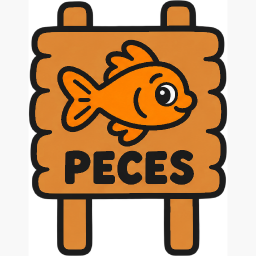
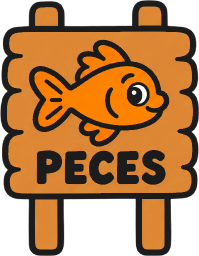
fix(art): erase the ghost alpha the prologue's authored cutouts shipped with
The four new cutouts came back with their transparent field at alpha 8
instead of 0, over ~10% of the canvas. recolour dyed that field INK and
alpha_bbox counted it as content, so each asset shipped as a near-black
wash behind the figure and cropped far wider than its drawing.

clear_ghost_alpha is opt-in via GHOST_ALPHA_SOURCES, like the existing
SPECKLED_ALPHA_SOURCES: run over every source it shifted four approved
assets by a pixel through a box_resize rounding flip, and those
dimensions are guarded on purpose.

Dropping the phantom padding changes w/h, so assets.ts is resynced from
the manifest, and PrologueOpening sizes the caretaker by height -- at
width 44% the now-taller 235x320 figure hid its head behind the bubble.

diff --git a/client/src/screen/PrologueOpening.tsx b/client/src/screen/PrologueOpening.tsx
@@ -44,7 +44,14 @@ const PROLOGUE_CSS = `
 .cv-prologue { height: 100dvh; display: flex; align-items: center; justify-content: center; background-color: ${SHEET_PAPER}; box-sizing: border-box; padding: 4%; }
 .cv-prologue-frame { position: relative; width: min(100%, 620px, 84dvh); aspect-ratio: 1 / 1; container-type: inline-size; }
 .cv-prologue-stage { position: absolute; inset: 0; container-type: inline-size; border: none; background: none; padding: 0; cursor: pointer; }
-.cv-prologue-octopus { position: absolute; left: 50%; bottom: 2%; width: 44%; height: auto; transform: translateX(-50%); }
+/* Sized by HEIGHT, unlike AdventureIntro's own octopus rule, and the
+   difference is not cosmetic. That rule says width: 44% because
+   ZOO_OCTOPUS_BACKPACK_ART is 442x448 -- near square, so width and height
+   land in the same place. The caretaker is 235x320: at width: 44% it stands
+   36% taller than the backpack octopus does and its head disappears behind
+   the bubble. Height is what has to be pinned here, because what the layout
+   actually needs is for the figure to stop below the bubble. */
+.cv-prologue-octopus { position: absolute; left: 50%; bottom: 2%; height: 44%; width: auto; transform: translateX(-50%); }
 .cv-prologue-bubble { position: absolute; left: 50%; top: 4%; width: 82%; transform: translateX(-50%); }
 .cv-prologue-bubble > img { display: block; width: 100%; height: auto; }
 .cv-prologue-bubble .cv-captioned { position: absolute; left: 10%; right: 10%; top: 16%; height: 58%; display: flex; flex-direction: row; align-items: center; justify-content: center; gap: 4cqw; }

diff --git a/client/src/detective/assets.ts b/client/src/detective/assets.ts
@@ -287,7 +287,7 @@ export const SECTOR_BACKGROUND_ART: Readonly<Record<
  * `artManifest.test.ts`. */
 export const ZOO_CARETAKER_ART: ArtImage = {
   href: '/art/zoo-octopus-caretaker.png',
-  w: 320,
+  w: 235,
   h: 320,
 }
 
@@ -297,9 +297,9 @@ export const ZOO_CARETAKER_ART: ArtImage = {
  * `AdventureClosing` renders exactly one `CaptionedArt` per beat, and its
  * caption is always the beat's `line` (the docs/16 §9 sentence). */
 export const SIGN_ART: Readonly<Record<'fish' | 'turtles' | 'monkeys', ArtImage>> = {
-  fish: { href: '/art/sign-fish.png', w: 256, h: 256 },
-  turtles: { href: '/art/sign-turtles.png', w: 256, h: 256 },
-  monkeys: { href: '/art/sign-monkeys.png', w: 256, h: 256 },
+  fish: { href: '/art/sign-fish.png', w: 199, h: 256 },
+  turtles: { href: '/art/sign-turtles.png', w: 199, h: 256 },
+  monkeys: { href: '/art/sign-monkeys.png', w: 197, h: 256 },
 }
 
 /** Props used by the sector adventures. Each file is a transparent cutout;

diff --git a/scripts/art/build_art.py b/scripts/art/build_art.py
@@ -283,12 +283,67 @@ def emit_opaque_canvas(name: str, img: png.Image, expected_w: int, expected_h: i
 # entry here.
 SPECKLED_ALPHA_SOURCES = {'oveja.png', 'piedra.png'}
 
+# Sources whose "transparent" field came back at a low but NON-ZERO alpha.
+# See `clear_ghost_alpha` for the measurement and why this is opt-in like
+# `SPECKLED_ALPHA_SOURCES` rather than a blanket pass.
+GHOST_ALPHA_SOURCES = {
+    'pulpo cuidador.png',
+    'cartel peces.png',
+    'cartel tortugas.png',
+    'cartel monos.png',
+}
+
+
+def clear_ghost_alpha(img: png.Image, thresh: int = 8) -> png.Image:
+    """Erase a background that was exported almost-transparent instead of
+    transparent.
+
+    Some exports return the "transparent" field at a low but NON-ZERO alpha.
+    `pulpo cuidador.png` and the three `cartel *.png` of the prologue's first
+    authored round each came back with ~10% of the canvas at alpha EXACTLY 8
+    -- a flat spike, not the smooth tail antialiasing leaves. That field is
+    invisible in a thumbnail and does two things downstream: `recolour` dyes
+    it INK, so the asset ships as a near-black wash, and `alpha_bbox` counts
+    it as content, so the crop keeps it. `pulpo cuidador.png` cropped 640px
+    wide instead of its figure's 470.
+
+    Note the boundary. `alpha_bbox`'s own test is `>= thresh`, so alpha 8 is
+    content to the cropper; clearing `< thresh` would step over the one value
+    that matters and change nothing. We clear `<= thresh`: under ~3% opacity
+    is background, and the cropper and the eraser now agree on that.
+
+    Measured before shipping this, so it is not a guess. Every previously
+    approved cutout is untouched: `pulpo mochila.png` returns the IDENTICAL
+    bounding box at thresh 8 and 9, and the shipped cutouts measure
+    0.00-0.40% in the 1-8 band against these four's 23-29%.
+
+    This is `SPECKLED_ALPHA_SOURCES`'s defect class reached from a third
+    direction -- `oveja.png` and `piedra.png` were opaque specks, which break
+    the crop by scattering -- and it takes the same opt-in shape, for the
+    reason that set already gives: a blanket pass is not free. Run over every
+    source, clearing `<= 8` moved four ALREADY-APPROVED assets by one pixel
+    (`droplet` 195->194 wide, `webfoot` 230->231 tall, `hedgehog-profile`
+    306->307, `home-desk`). Not a visible change -- a one-pixel crop shift
+    flipping a rounding in `box_resize` -- but `artManifest.test.ts` and
+    `artHierarchy.test.ts` guard those dimensions on purpose, and editing a
+    guard to match a change the guard just caught is how the guard stops
+    meaning anything. Opt-in keeps this aimed at the sources that measured
+    the defect.
+    """
+    px = img.px
+    for i in range(3, len(px), 4):
+        if px[i] <= thresh:
+            px[i - 3] = px[i - 2] = px[i - 1] = px[i] = 0
+    return img
+
 
 def prepare(src_name: str, target_h: int) -> png.Image:
     """Crop to content and downscale so the taller side lands on `2*target_h`."""
     img = png.read_png(os.path.join(SRC, src_name))
     if src_name in SPECKLED_ALPHA_SOURCES:
         img = keep_largest_blob(img)
+    if src_name in GHOST_ALPHA_SOURCES:
+        img = clear_ghost_alpha(img)
     x0, y0, x1, y1 = png.alpha_bbox(img)
     img = png.crop(img, x0, y0, x1, y1)
     work = target_h * 2

diff --git a/docs/17_PEDIDOS_DE_ARTE_PROLOGO.md b/docs/17_PEDIDOS_DE_ARTE_PROLOGO.md
@@ -225,6 +225,50 @@ Light, quiet colours. Nothing darker than a mid tone. No sky gradient.
 su propio placeholder— pero si el pedido tarda, el cambio es una línea en
 `client/src/zoo/backdrops.ts`.
 
+## 3 bis. El fondo "transparente" que no es transparente
+
+Encontrado en la primera ronda de arte de este documento (2026-09-17), con
+los tests en verde: los cuatro recortes nuevos se veían con un **rectángulo
+gris detrás de la figura**.
+
+La causa no se ve en una miniatura. El fondo transparente que devolvió el
+generador salió a **alpha exactamente 8** en vez de 0, sobre el 10 % del
+lienzo. Dos consecuencias encadenadas: `recolour` tiñe ese campo de tinta, y
+`alpha_bbox` —que compara con `>= 8`— lo cuenta como contenido, así que el
+recorte se lo queda. `pulpo cuidador.png` recortaba 640 px de ancho cuando su
+figura mide 470.
+
+Cómo se detecta en diez segundos, y conviene hacerlo con **cada** lámina
+nueva antes de creerle a la suite:
+
+```python
+# desde scripts/art/
+from png import read_png
+img = read_png('../../art-source/<lamina>.png')
+px = img.px; t = img.w * img.h
+haze = sum(1 for i in range(3, len(px), 4) if 0 < px[i] <= 8)
+print(f"halo={haze*100/t:.2f}%  esquina={tuple(px[0:4])}")
+```
+
+Un recorte sano da `halo` entre 0,00 % y 0,40 % y esquina `(0, 0, 0, 0)`.
+Los cuatro defectuosos daban 23–29 % y `(26, 26, 26, 8)`.
+
+**El arreglo ya está en el pipeline**: `clear_ghost_alpha` en `build_art.py`,
+con la lista `GHOST_ALPHA_SOURCES`. Si una lámina nueva mide mal, **agregala
+a esa lista por nombre**; no subas el umbral para todos. Correrlo sobre todas
+las fuentes movía un píxel a cuatro assets ya aprobados (`droplet`,
+`webfoot`, `hedgehog-profile`, `home-desk`) porque un recorte corrido un
+píxel da vuelta un redondeo de `box_resize`, y `artManifest.test.ts` los
+cuida a propósito. Es la misma razón por la que `SPECKLED_ALPHA_SOURCES` es
+opt-in.
+
+**Y ojo con el paso 3 de la sección 4 cuando esto pasa**: al irse el relleno
+fantasma **cambian el `w` y el `h`**, así que ahí sí hay que copiar los
+nuevos del manifest a `assets.ts`. Y si algún CSS dimensionaba la figura por
+ancho asumiendo un lienzo cuadrado, deja de valer: el pulpo cuidador pasó de
+320×320 a 235×320 y `width: 44%` lo estiró hasta esconderle la cabeza detrás
+del globo. `PrologueOpening.tsx` ahora lo fija por alto.
+
 ## 4. Cómo entra una lámina nueva
 
 Cuatro puntos de registro, y el orden importa. Está todo en `docs/16` §8,
